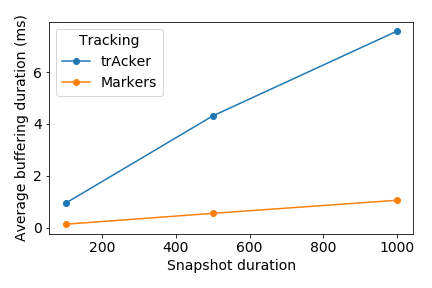
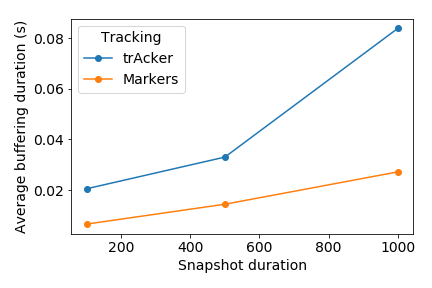
Post-snapshot latencies horizontal bar plots

diff --git a/2019/acker/fs-acker-experiments.tex b/2019/acker/fs-acker-experiments.tex
@@ -118,16 +118,24 @@ In those experiments we are comparing granular tracking using \tracker\ and mark
   \includegraphics[width=0.50\textwidth]{pics/buffering_sum_duration.png}
   \caption{Total buffering duration}
 \end{figure}
-\begin{figure}[htbp]
-  \centering
-  \includegraphics[width=0.50\textwidth]{pics/buffering_latencies_evolution_acker.png}
-  \caption{Latencies with \tracker}
-\end{figure}
-\begin{figure}[htbp]
-  \centering
-  \includegraphics[width=0.50\textwidth]{pics/buffering_latencies_evolution_watermarks.png}
-  \caption{Latencies with markers}
-\end{figure}
+
+\begin{figure*}[t!]
+    \begin{subfigure}[b]{0.32\textwidth}
+            \includegraphics[width=0.99\textwidth]{pics/buffering_latencies_barh_100.png}
+            \caption{100 ms snapshot}
+    \end{subfigure}
+    \hspace{5mm}
+    \begin{subfigure}[b]{0.32\textwidth}
+            \includegraphics[width=0.99\textwidth]{pics/buffering_latencies_barh_500.png}
+            \caption{500 ms snapshot}
+    \end{subfigure}
+    \hspace{5mm}
+    \begin{subfigure}[b]{0.32\textwidth}
+            \includegraphics[width=0.99\textwidth]{pics/buffering_latencies_barh_1000.png}
+            \caption{1000 ms snapshot}
+    \end{subfigure}
+    \caption{Post-snapshot latencies}
+\end{figure*}
 
 \subsection{Count iterations?}
 
